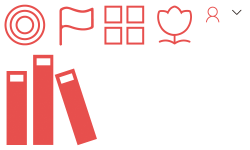
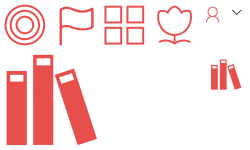
修改雪碧图并增加机构

Changed region(s): [[0.84, 0.3733, 0.98, 0.6133]]

diff --git a/task7/icepro/css/main.min.css b/task7/icepro/css/main.min.css
@@ -1,1 +1,1 @@
-@charset "UTF-8";.font-cc{background:url(img/ioc.png) -4px -4px no-repeat;width:42px;height:42px}.font-flag{background:url(img/ioc.png) -59px -4px no-repeat;width:35px;height:40px}.font-app{background:url(img/ioc.png) -104px -4px no-repeat;width:41px;height:41px}.font-flower{background:url(img/ioc.png) -156px -4px no-repeat;width:35px;height:41px}.font-man{background:url(img/ioc.png) -206px -5px no-repeat;width:14px;height:17px}.font-dropdown{background:url(img/ioc.png) -232px -9px no-repeat;width:10px;height:6px}.font-book{background:url(img/ioc.png) -6px -56px no-repeat;width:91px;height:90px}.font-qq{background:url(img/ioc.png) -112px -62px no-repeat;width:25px;height:25px}.font-twtter{background:url(img/ioc.png) -162px -62px no-repeat;width:30px;height:25px}.font-globe{background:url(img/ioc.png) -112px -112px no-repeat;width:25px;height:25px}.font-sina{background:url(img/ioc.png) -162px -112px no-repeat;width:30px;height:25px}.font-hook{background:url(img/ioc.png) -267px -35px no-repeat;width:12px;height:8px}*{margin:0;padding:0}html{font-size:100%}
+@charset "UTF-8";.font-cc{background:url(img/ioc.png) -4px -4px no-repeat;width:42px;height:42px}.font-flag{background:url(img/ioc.png) -59px -4px no-repeat;width:35px;height:40px}.font-app{background:url(img/ioc.png) -104px -4px no-repeat;width:41px;height:41px}.font-flower{background:url(img/ioc.png) -156px -4px no-repeat;width:35px;height:41px}.font-man{background:url(img/ioc.png) -206px -5px no-repeat;width:14px;height:17px}.font-dropdown{background:url(img/ioc.png) -232px -9px no-repeat;width:10px;height:6px}.font-book{background:url(img/ioc.png) -6px -56px no-repeat;width:91px;height:90px}.font-qq{background:url(img/ioc.png) -112px -62px no-repeat;width:25px;height:25px}.font-twtter{background:url(img/ioc.png) -162px -62px no-repeat;width:30px;height:25px}.font-globe{background:url(img/ioc.png) -112px -112px no-repeat;width:25px;height:25px}.font-sina{background:url(img/ioc.png) -162px -112px no-repeat;width:30px;height:25px}.font-hook{background:url(img/ioc.png) -267px -35px no-repeat;width:12px;height:8px}.font-book-ms{background:url(img/ioc.png) -210px -59px no-repeat;width:32px;height:32px}*{margin:0;padding:0}html{font-size:16 ÷ 16 × 100%}body{min-width:1280px}div{position:relative}p{font-size:.75 rem;font-family:"微软雅黑"}

diff --git a/task7/icepro/task0007.html b/task7/icepro/task0007.html
@@ -5,6 +5,84 @@
 	<link rel="stylesheet" type="text/css" href="css/main.min.css" />
 </head>
 <body>
+<nav>
+
+</nav>
+<article>
+	<section class="banner">
+		<header>
+			<h2>Time of new life</h2>
+		</header>
+		<p>新时代，年轻的人们让我们	一起体验新生活	，享受新生活</p>
+		<button>开始体验</button>
+		<ul class="detail">
+			<li>
+				<p><span class="font-cc"></span></p>
+				<p>打造全新世界观，让你更爱你的生活</p>
+			</li>
+			<li>
+				<p><span class="font-flag"></span></p>
+				<p>打造全新世界观，让你更爱你的生活</p>
+			</li>
+			<li>
+				<p><span class="font-flower"></span></p>
+				<p>打造全新世界观，让你更爱你的生活</p>
+			</li>
+			<li>
+				<p><span class="font-app"></span></p>
+				<p>打造全新世界观，让你更爱你的生活</p>
+			</li>
+		</ul>
+	</section>
+	<section class="new-world">
+		<p><span class="font-book"></span></p>
+		<header><h2>关于新世界，你不知道的还有什么？</h2></header>
+	</section>
+	<section class="find-city">
+		<header>
+			<h2>查找新世界城市活动信息<br>——</h2
+				>
+			<h3>每个城市有不同的活动信息，请自主查询你需要了解的城市</h3>
+		</header>
+		<ul>
+			<li>
+				<select placeholder="中国">
+					<option>中国</option>
+				</select>
+			</li>
+			<li>
+				<select placeholder="省份">
+					<option>北京市</option>
+					<option>天津市</option>
+					<option>河北市</option>
+					<option>陕西市</option>
+					<option>内蒙古自治区</option>
+					<option>辽宁省</option>
+				</select>
+			</li>
+			<li>
+				<select placeholder="城市">
+				</select>
+			</li>
+			<li><button>搜索</button></li>
+		</ul>
+	</section>
+	<section class="display">
+	</section>
+	<section class="switch－new">
+	</section>
+	<section class="read-more">
+	</section>
+	<section class="join-us">
+	</section>
+</article>
+<footer>
+	<div class="contract-us">
+	</div>
+	<div class="end">
+	</div>
+</footer>
+<!--
 <div class="font-cc"></div>
 <div class="font-flag"></div>
 <div class="font-man"></div>
@@ -16,6 +94,7 @@
 <div class="font-twtter"></div>
 <div class="font-globe"></div>
 <div class="font-sina"></div>
-<div class="font-hook"></div>
+<div class="font-book-ms"></div>
+-->
 </body>
 </html>

diff --git a/task7/icepro/css/main.css b/task7/icepro/css/main.css
@@ -83,10 +83,27 @@
   width: 12px;
   height: 8px; }
 
+.font-book-ms {
+  background: url(img/ioc.png);
+  background-repeat: no-repeat;
+  background-position: -210px -59px;
+  width: 32px;
+  height: 32px; }
+
 * {
   margin: 0rem;
   padding: 0rem; }
 
 html {
-  font-size: 100%;
+  font-size: 16 ÷ 16 × 100%;
   /*16 ÷ 16 × 100% = 100%*/ }
+
+body {
+  min-width: 1280px; }
+
+div {
+  position: relative; }
+
+p {
+  font-size: 0.75 rem;
+  font-family: "微软雅黑"; }

diff --git a/task7/icepro/sass/color/default.scss b/task7/icepro/sass/color/default.scss
@@ -1,0 +1,24 @@
+//主色：红色
+$red: #e74f4d;
+//背景色鲜红色
+$lighter-red: #e7504d;
+//选中色，深红色
+$deep-red: #bf4f49;
+//浅灰色
+$light-grey: #f7f7f7;
+//字体用浅灰色
+$font-grey: #979898;
+//背景主灰色
+$bg-grey: #d2d2d2;
+//弹出栏深灰色
+$deep-grey: #e3e3e4;
+//大标题深色字
+$grey: #676768;
+//边框及小字色
+$lighter-gey: #d2d2d2;
+$white: #fff;
+$black: #323333;
+
+$footor-blue: #32353e;
+
+$end-purple: #2f3038;

diff --git a/task7/icepro/sass/sprite.scss b/task7/icepro/sass/sprite.scss
@@ -1,4 +1,4 @@
-$ioc:url(img/ioc.png);
+
 @mixin font-ioc($x: 0px,$y:0px,$w:42px,$h:42px){
 	background: $ioc;
 	background-repeat: no-repeat;
@@ -43,4 +43,8 @@ $ioc:url(img/ioc.png);
 
 .font-hook {
 	@include font-ioc(267px,35px,12px,8px)
+}
+
+.font-book-ms {
+	@include font-ioc(210px,59px,32px,32px)
 }

diff --git a/task7/icepro/sass/base.scss b/task7/icepro/sass/base.scss
@@ -1,0 +1,21 @@
+* {
+	margin: 0rem;
+	padding: 0rem;
+}
+
+html {
+	font-size: $base ÷ 16 × 100%;
+	/*16 ÷ 16 × 100% = 100%*/
+}
+body {
+	min-width: 1280px;
+}
+
+div {
+	position: relative;
+}
+
+p {
+	font-size: (12/$base) rem;
+	font-family: "微软雅黑"
+}

diff --git a/task7/icepro/sass/main.scss b/task7/icepro/sass/main.scss
@@ -1,12 +1,4 @@
+@import "var";
 @import "color/default";
 @import "sprite";
-* {
-	margin: 0rem;
-	padding: 0rem;
-}
-
-html {
-	font-size: 100%;
-	/*16 ÷ 16 × 100% = 100%*/
-}
-
+@import "base";

diff --git a/task7/icepro/sass/var.scss b/task7/icepro/sass/var.scss
@@ -1,0 +1,7 @@
+//设定图标图位置
+$ioc:url(img/ioc.png);
+
+//根元素大小（px）
+$base:16;
+
+
